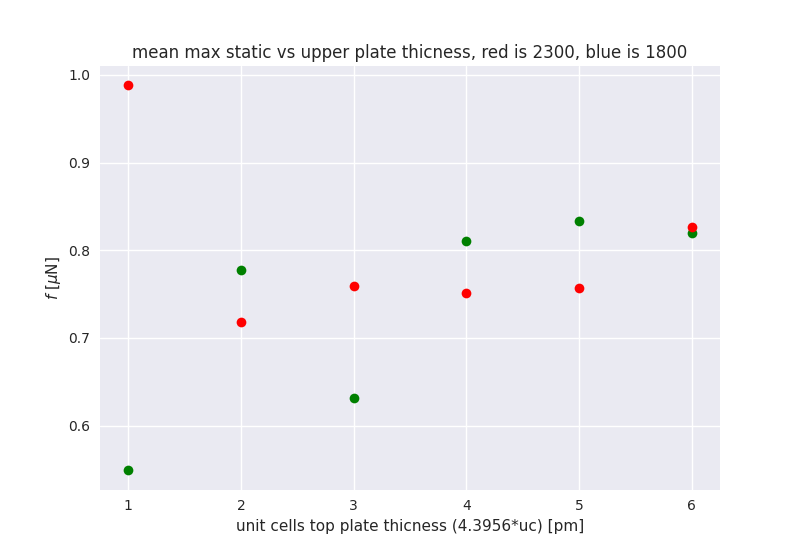
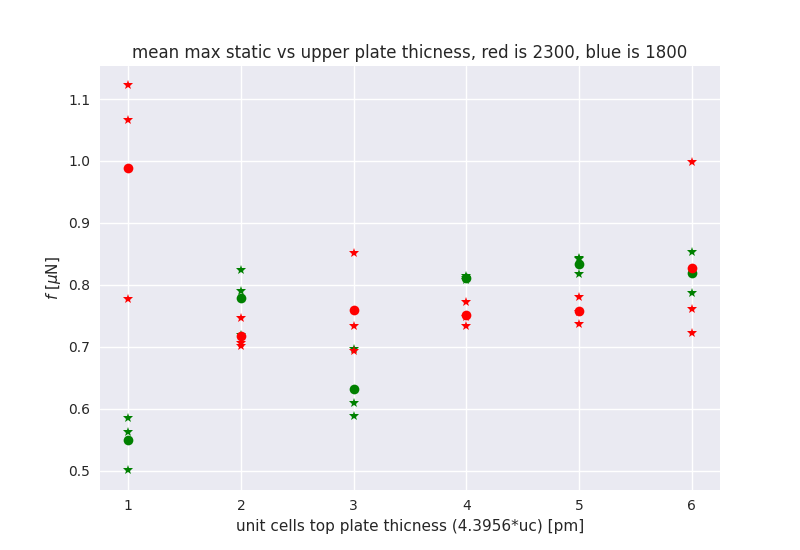
added average plot to max static

diff --git a/python/plot/plot_max_static.py b/python/plot/plot_max_static.py
@@ -69,7 +69,7 @@ def plot_max_static_vs_thiccness():
     seed_dict_18 = {1: [36015,37461,77220], 2: [49156,64486,73803],
                     3: [30642,74822,90272], 4: [20939,86781,87609],
                     5: [25642,46012,71581], 6: [86406,91501]}
-    colours = {1800: 'go', 2300:'ro'}
+    colours = {1800: 'g', 2300:'r'}
     
     temp_seed_uc = {1800: seed_dict_18, 2300: seed_dict_23}
     
@@ -80,9 +80,9 @@ def plot_max_static_vs_thiccness():
             ms_all, mean_static = load_max_static(temp, vel, force, orientation, grid, 
                                                   template_lc, template_ms, seed) 
             #all_mean_static[i] = mean_static
-            plt.plot(uc, mean_static, colours[temp])
-            #for ms in ms_all:
-            #    plt.plot(uc, ms, 'ob')
+            plt.plot(uc, mean_static, colours[temp]+'o')
+            for ms in ms_all:
+                plt.plot(uc, ms, colours[temp]+'*')
     
 
     plt.xlabel(r"unit cells top plate thicness (4.3956*uc) [pm]")
